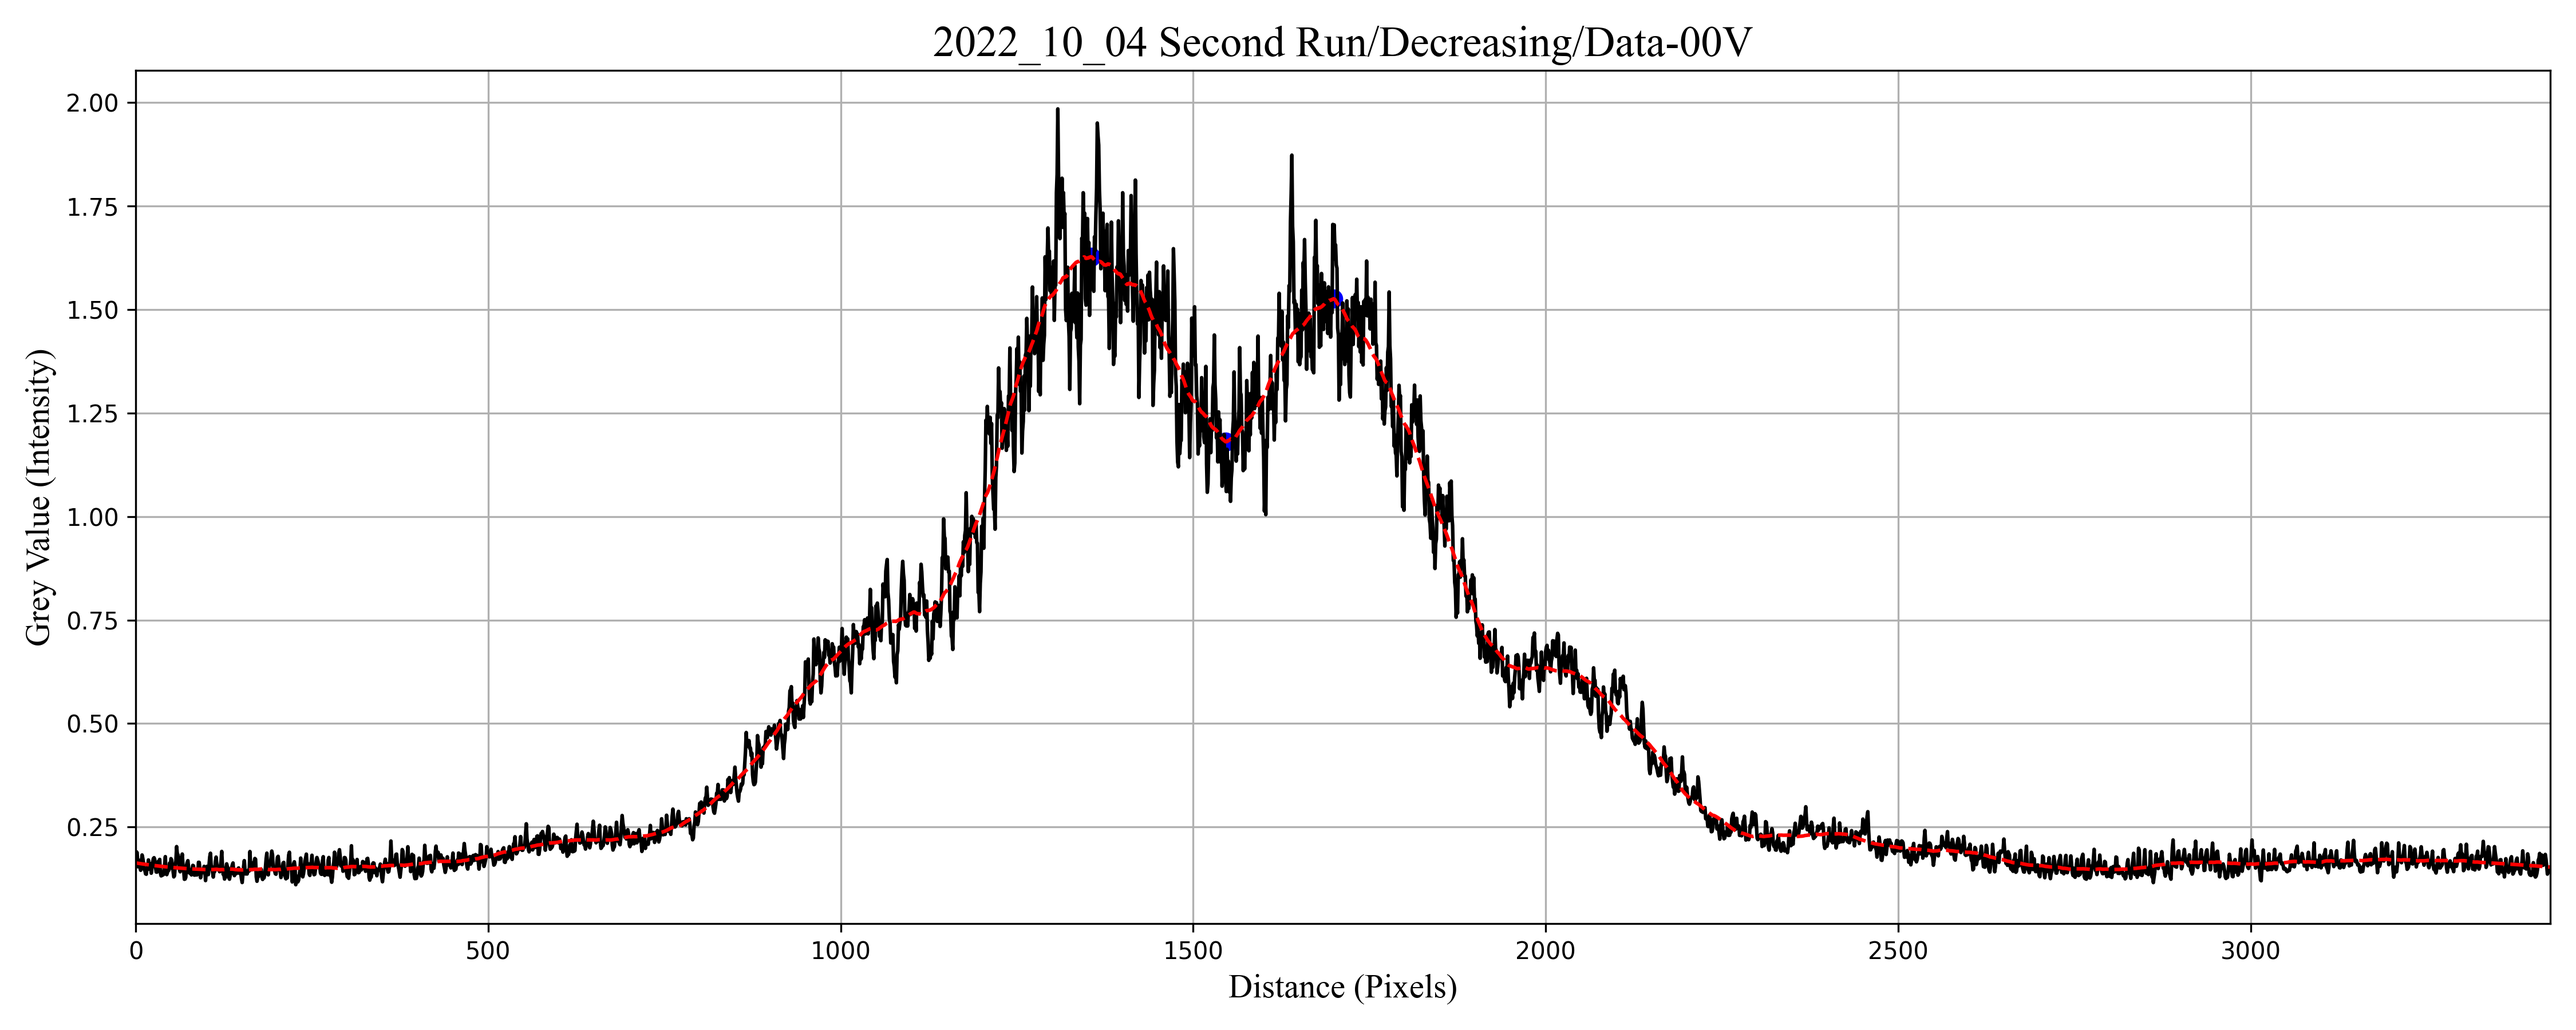
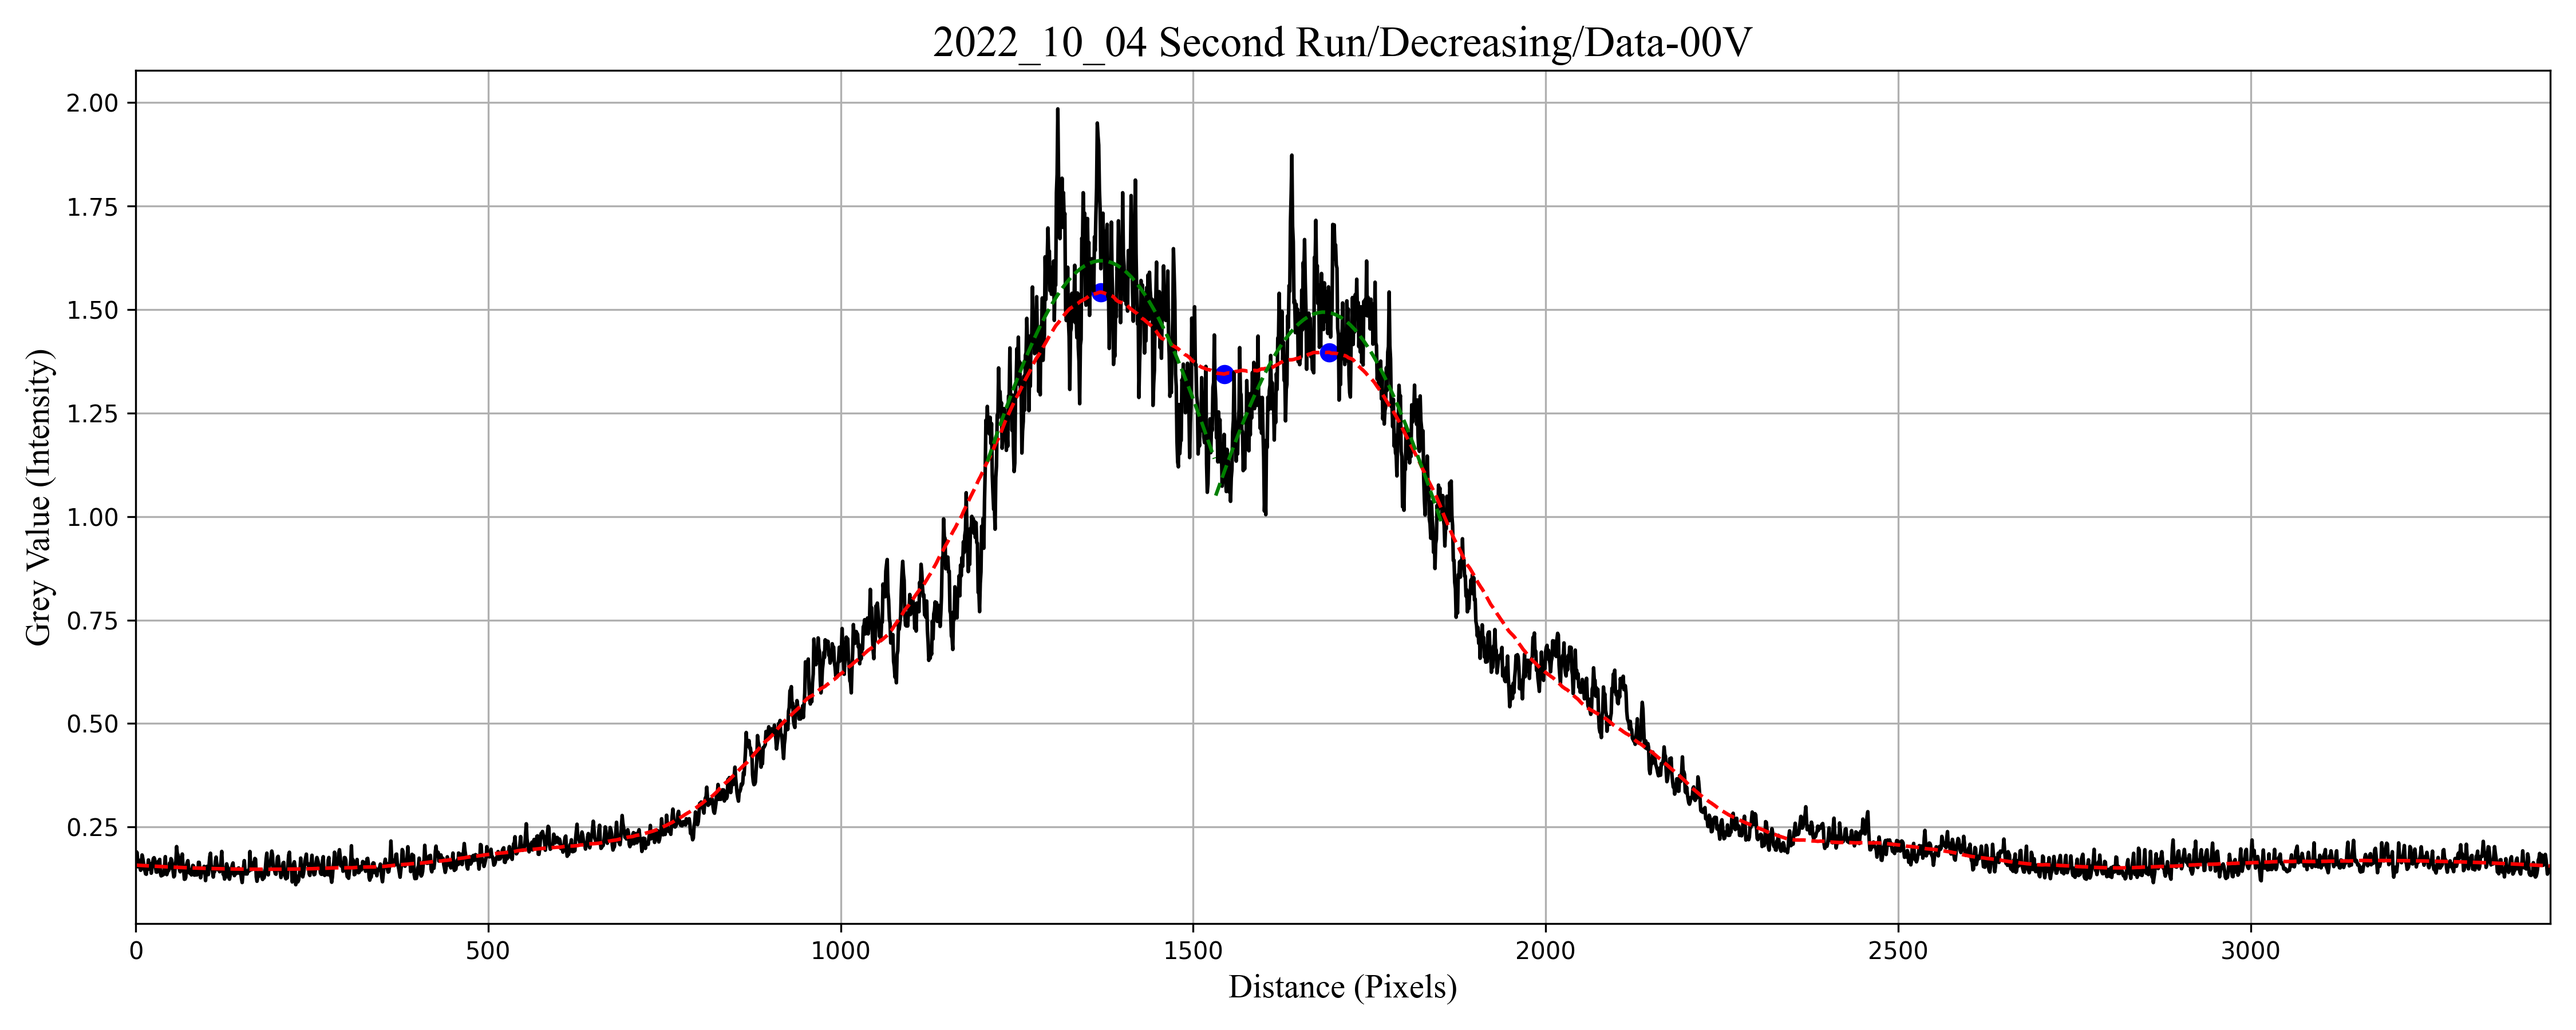
weighted means

diff --git a/TVHolography.py b/TVHolography.py
@@ -10,21 +10,21 @@ import matplotlib.pyplot as plt
 
 from Parameters import SAVGOL_FILTER_PARAMETERS_1,\
         SAVGOL_FILTER_PARAMETERS_2, PEAK_PROMINENCE
-from Functions import read_data, find_peaks,\
-        filter_peaks, find_linear_parameters
-from scipy.optimize import curve_fit
+from Functions import gaussian_peak, read_data, find_peaks,\
+        filter_peaks, find_linear_parameters,\
+        fit_gaussian, weighted_arithmetic_mean
 
-FILENAME_1 = "2022_10_13 Third Run/Values (Filtered)/Rising/Data/"
-FILENAME_2 = "2022_10_13 Third Run/Values (Filtered)/Decreasing/Data/"
-SAVE_FOLDER_1 = "2022_10_13 Third Run/Values (Filtered)/Rising/Results/"
-SAVE_FOLDER_2 = "2022_10_13 Third Run/Values (Filtered)/Decreasing/Results/"
-SAVE_FOLDER_AVERAGES = "2022_10_13 Third Run/Values (Filtered)/Comparison/"
+FILENAME_1 = "2022_10_04 Second Run/Rising/Data/"
+FILENAME_2 = "2022_10_04 Second Run/Decreasing/Data/"
+SAVE_FOLDER_1 = "2022_10_04 Second Run/Rising/Results/"
+SAVE_FOLDER_2 = "2022_10_04 Second Run/Decreasing/Results/"
+SAVE_FOLDER_AVERAGES = "2022_10_04 Second Run/Comparison/"
 X_VARIABLE = "Voltage"
 Y_VARIABLE = 'Grey Value (Intensity)'
 
 
 def draw_plot(title, data, savgol_parameter, filename,
-              save_folder, peak_prominence):
+              save_folder, peak_prominence, direction):
     fig, axs = plt.subplots(1, 1)
     fig.set_size_inches(15, 6)
 
@@ -47,13 +47,38 @@ def draw_plot(title, data, savgol_parameter, filename,
     axs.scatter(filtered_peaks, filtered_data[filtered_peaks], c='b', s=50)
     axs.scatter(filtered_troughs, filtered_data[filtered_troughs], c='b', s=50)
 
-    print(title)
+    print(("{0}V {1} with savgol parameter of: {2}").format(title, direction,
+                                                            savgol_parameter))
 
     if len(filtered_peaks) > 3 or len(filtered_troughs) > 3:
         fit_gaussian(filtered_peaks, filtered_data[filtered_peaks], axs)
         fit_gaussian(filtered_troughs, filtered_data[filtered_troughs], axs)
 
+    #flip the data back
+    data[:, 1] = -data[:, 1]
+
     peak_diff = np.diff(filtered_peaks)
+    fringe_spacing_guess = np.average(peak_diff)
+
+    sigmas = []
+    mean_peak = []
+    
+    #plot a gaussian at each peack using the average fringe spacing as the width
+    for peak in filtered_peaks:
+        mean, uncertainty = gaussian_peak(data[np.where((
+                                    data[:, 0] < peak + fringe_spacing_guess / 2)\
+                                    & (data[:, 0] > peak - fringe_spacing_guess / 2))],
+                                    peak, axs)
+        sigmas.append(uncertainty)
+        mean_peak.append(mean)
+    
+    fringe_spacing = np.diff(mean_peak)
+    fringe_spacing_uncertainty = []
+    for i in range(len(mean_peak) - 1):
+        uncertainty = np.sqrt(sigmas[i]**2 + sigmas[i + 1]**2)
+        fringe_spacing_uncertainty.append(uncertainty)
+    
+    mean_fringe_spacing, mean_fringe_spacing_sigma = weighted_arithmetic_mean(fringe_spacing, fringe_spacing_uncertainty) 
 
     axs.grid()
     axs.set_xlim((np.min(data[:, 0]), np.max(data[:, 0])))
@@ -62,24 +87,10 @@ def draw_plot(title, data, savgol_parameter, filename,
     plt.savefig(save_folder + title, dpi=300, transparent=False)
     plt.close()
 
-    return np.array((int(title), 1 / np.average(peak_diff),
-                    (1 / (np.average(peak_diff) ** 2))
-                    * np.std(peak_diff) / np.sqrt(len(peak_diff))))
+    return np.array((int(title), 1 / mean_fringe_spacing,
+                    (1 / (mean_fringe_spacing ** 2))
+                    * mean_fringe_spacing_sigma))
 
-def fit_gaussian(x_data, y_data, axis):
-    mu_guess = np.average(x_data)
-    std_guess = 100
-    param, _ = curve_fit(gaussian_curve, x_data, y_data,
-                         p0=[1.5, std_guess, mu_guess])
-    # uncertainty = np.sqrt(np.diagonal(cov))
-
-    axis.plot(np.linspace(np.min(x_data), np.max(x_data)),
-              gaussian_curve(np.linspace(np.min(x_data), np.max(x_data)), *param), 'g--')
-    return
-
-def gaussian_curve(x_data, A, sigma, mu):
-    exponent = - (x_data - mu) ** 2 / (2 * sigma ** 2)
-    return A * np.exp(exponent)
 
 def plot_averages(data_1, data_2, save_folder):
     fig, axs = plt.subplots(1, 1)
@@ -141,7 +152,8 @@ def main():
             averages_1 = np.vstack((averages_1, draw_plot(data[0], data[1],
                                     SAVGOL_FILTER_PARAMETERS_1[data[0]],
                                     FILENAME_1,
-                                    SAVE_FOLDER_1, PEAK_PROMINENCE["Rising"])))
+                                    SAVE_FOLDER_1, PEAK_PROMINENCE["Rising"], 
+                                    "Rising")))
         else:
             print("No (valid) files provided, ending program")
 
@@ -150,7 +162,8 @@ def main():
             averages_2 = np.vstack((averages_2, draw_plot(data[0], data[1],
                                     SAVGOL_FILTER_PARAMETERS_2[data[0]],
                                     FILENAME_2, SAVE_FOLDER_2,
-                                    PEAK_PROMINENCE["Decreasing"])))
+                                    PEAK_PROMINENCE["Decreasing"],
+                                    "Decreasing")))
         else:
             print("No (valid) files provided, ending program")
 

diff --git a/Functions.py b/Functions.py
@@ -23,7 +23,7 @@ def read_data(file_name):
 
             invalid_index = np.unique(np.append(invalid_index, nan_index))
             valid_data = np.delete(data, invalid_index.astype(int), 0)
-            # print(filename, " accepted")
+            print(filename, " accepted")
 
         except IOError:
             print("Error: ", filename, " directory not found")
@@ -68,3 +68,33 @@ def find_linear_parameters(data):
 
 def gaussian_smooth_filter(y_data, sigma):
     return gaussian_filter(y_data, sigma)
+
+
+def fit_gaussian(x_data, y_data, axis):
+    mu_guess = np.average(x_data)
+    std_guess = 100
+    param, _ = curve_fit(gaussian_curve, x_data, y_data,
+                         p0=[1.5, std_guess, mu_guess])
+    # uncertainty = np.sqrt(np.diagonal(cov))
+
+    axis.plot(np.linspace(np.min(x_data), np.max(x_data)),
+              gaussian_curve(np.linspace(np.min(x_data), np.max(x_data)), *param), 'g--')
+    return
+
+def gaussian_curve(x_data, A, sigma, mu):
+    exponent = - (x_data - mu) ** 2 / (2 * sigma ** 2)
+    return A * np.exp(exponent)
+
+def gaussian_peak(data, mean, axis):
+    param, cov = curve_fit(gaussian_curve, data[:, 0], data[:, 1],
+                         p0=[1.5, len(data[:, 0]), mean])
+    axis.plot(np.linspace(np.min(data[:, 0]), np.max(data[:, 0])),
+              gaussian_curve(np.linspace(np.min(data[:, 0]), np.max(data[:, 0])), *param), 'g--')
+    return param[2], np.sqrt(cov[2,2])
+
+
+def weighted_arithmetic_mean(data, uncertanties):
+    weighted_uncertanties = np.power(np.power(uncertanties, 2), -1)
+    weighted_mean = np.sum(weighted_uncertanties * data) / np.sum(weighted_uncertanties)
+    weighted_mean_standard_error = 1 / np.sqrt(np.sum(weighted_uncertanties))
+    return weighted_mean, weighted_mean_standard_error
